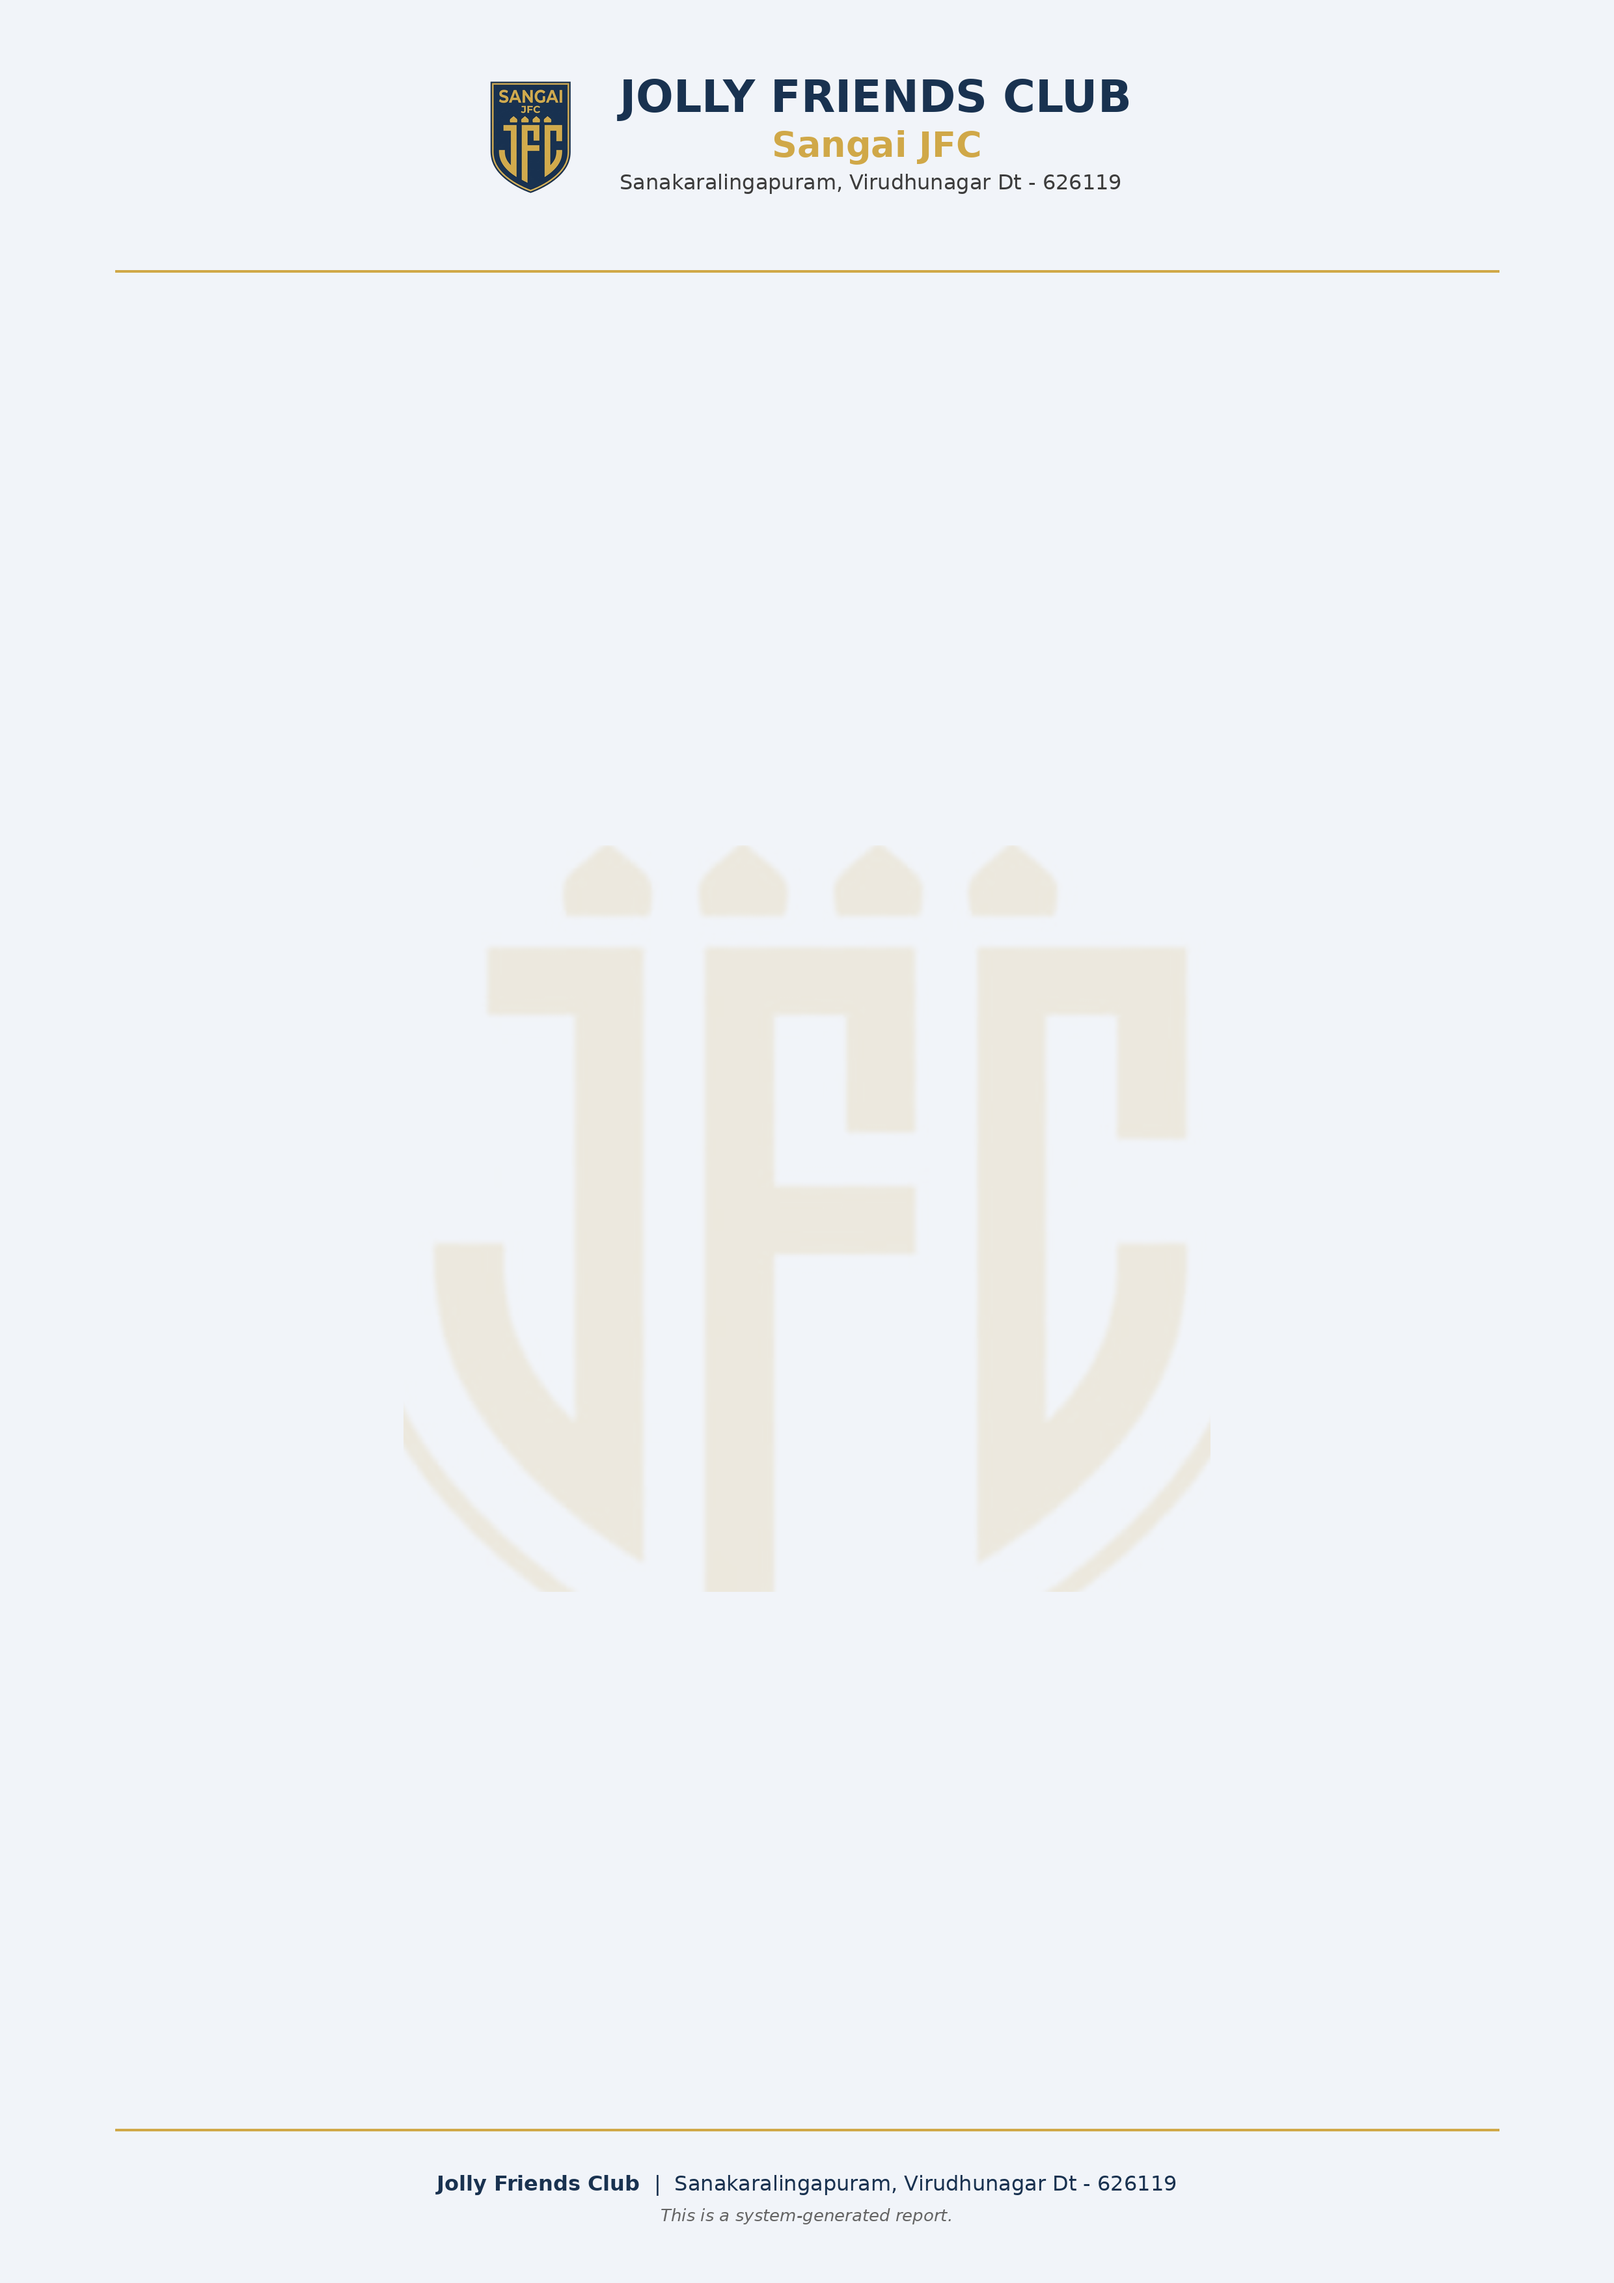
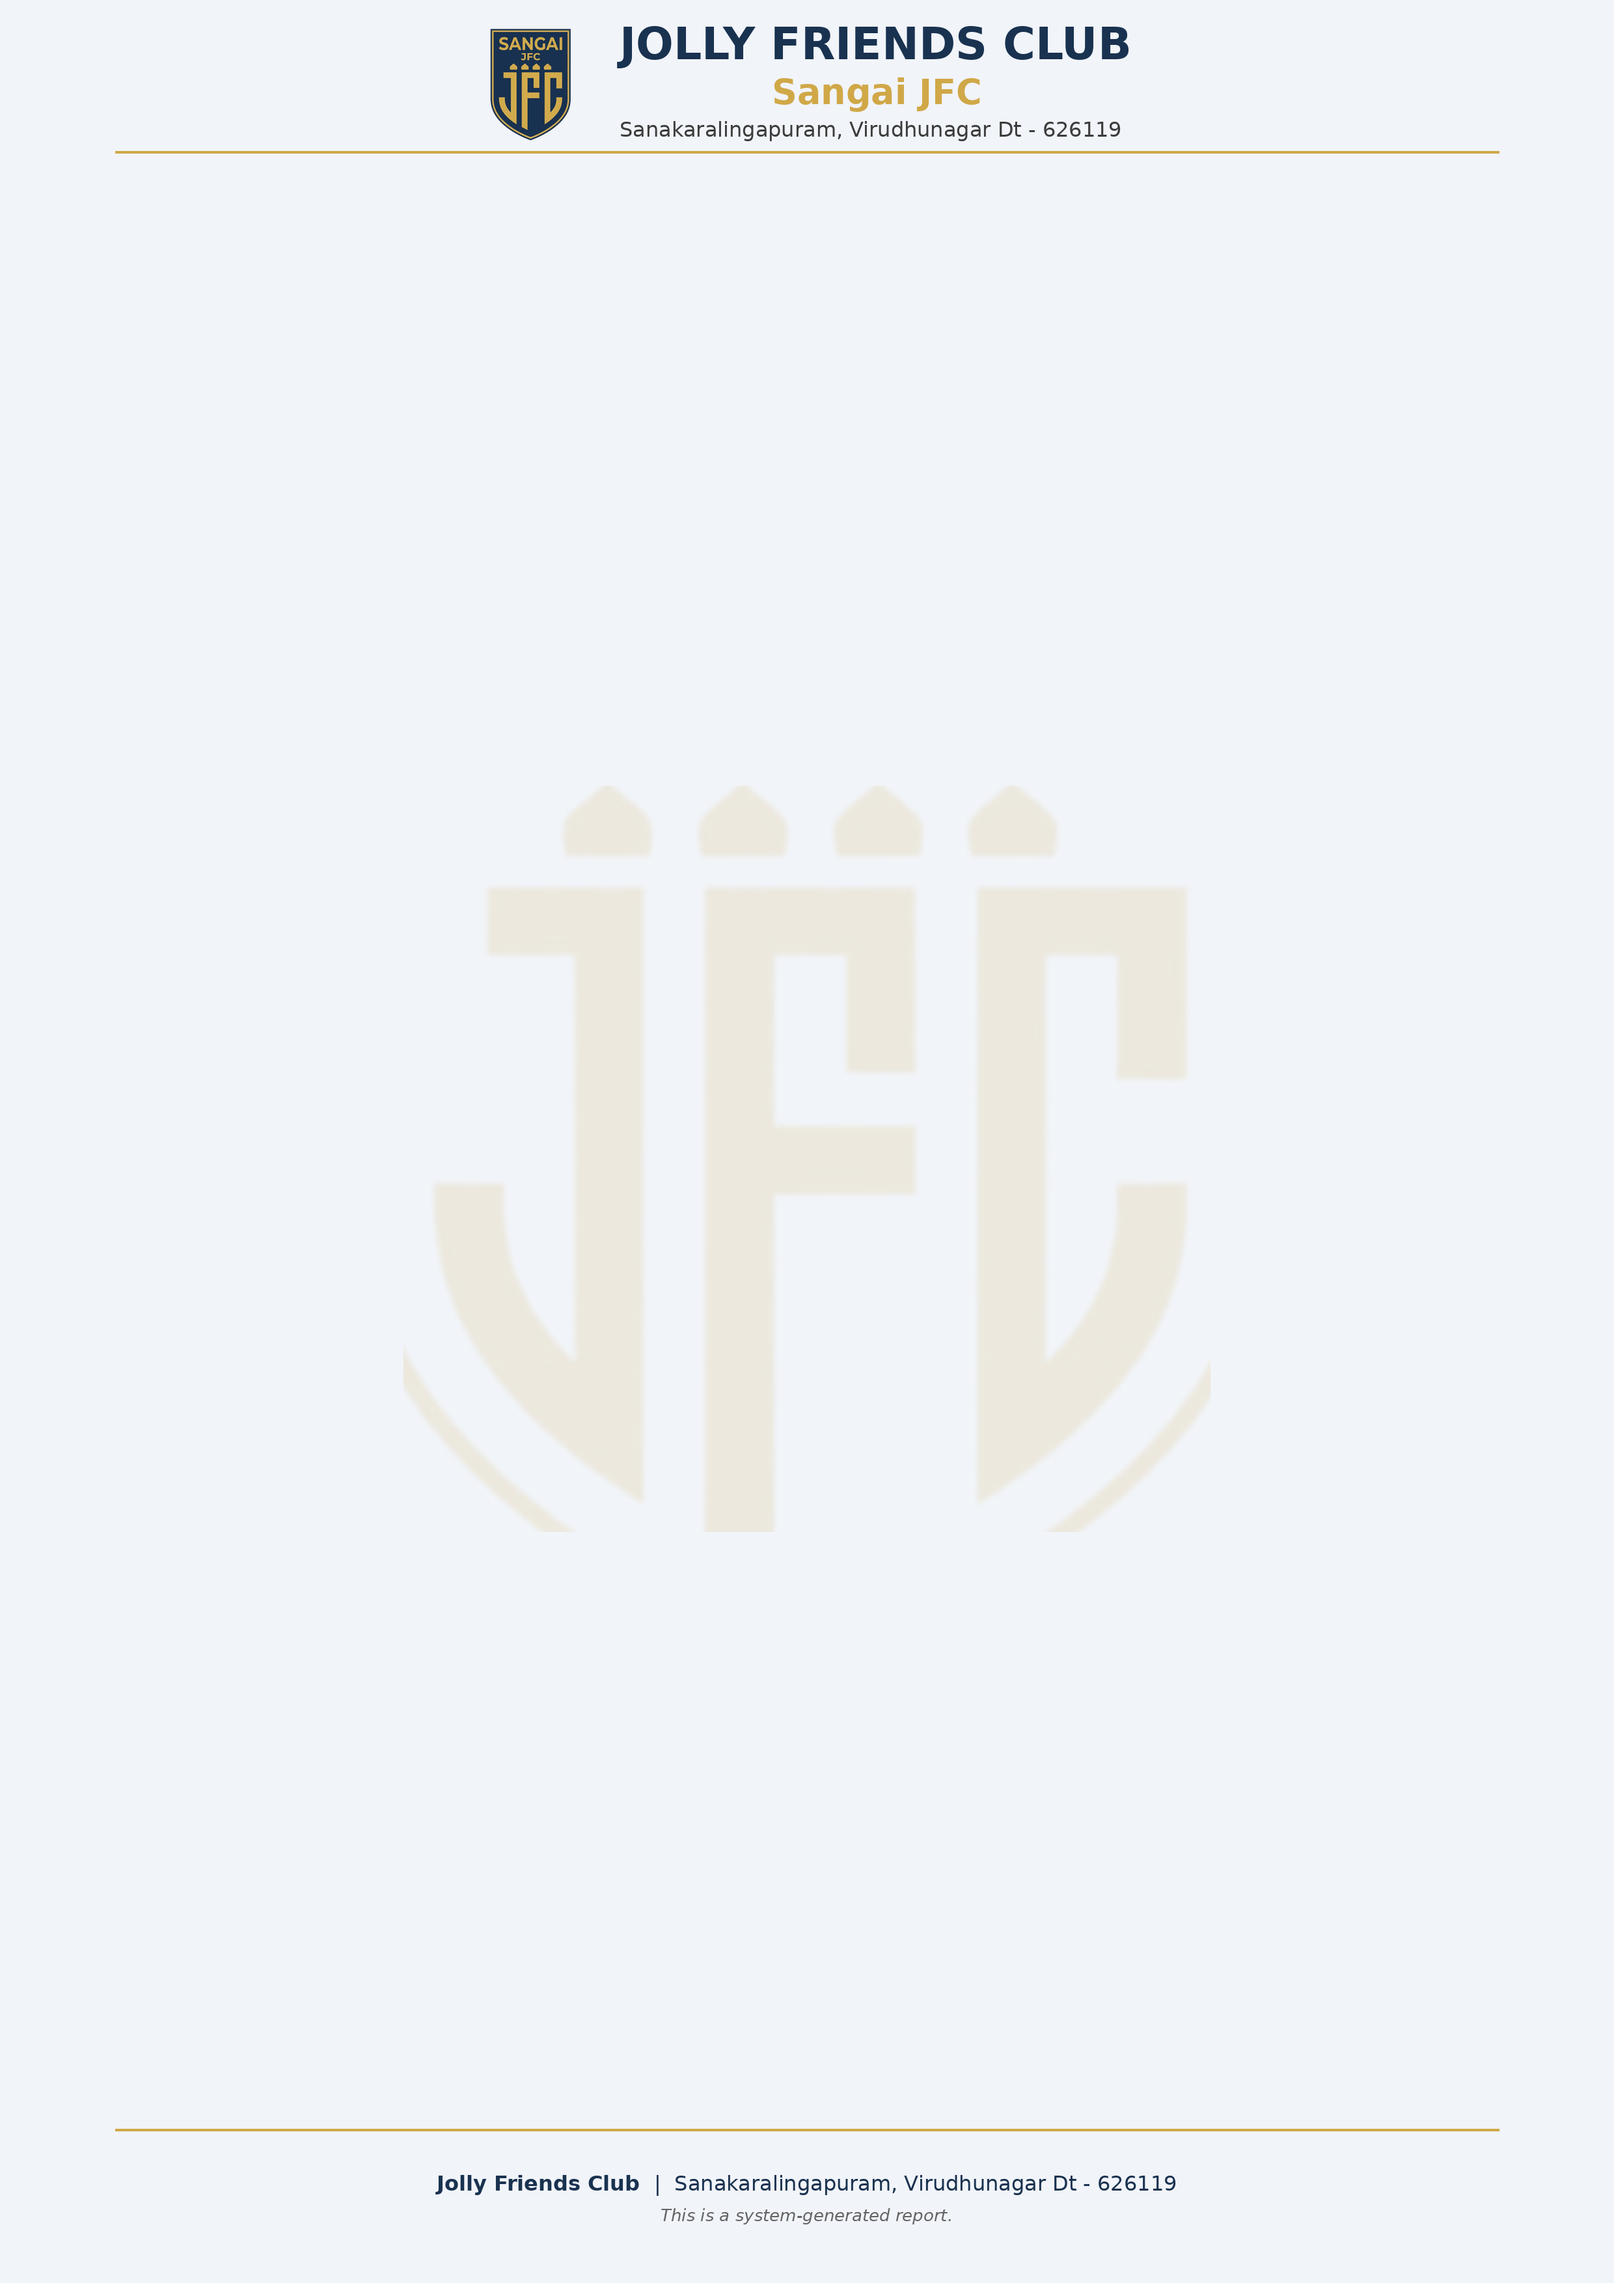
Add files via upload

diff --git a/backend/src/utils/reportExport.js b/backend/src/utils/reportExport.js
@@ -9,11 +9,15 @@ const path = require('path');
 // defines so it never overlaps the header or footer artwork.
 const LETTERHEAD_PATH = path.join(__dirname, '..', '..', 'assets', 'letterhead.png');
 
-// A4 in points, and the safe-area margins from the spec, converted from mm
-// (1mm = 2.83465pt): header 40mm, footer 20mm, left/right 15mm each.
+// A4 in points, and the safe-area margins, converted from mm (1mm =
+// 2.83465pt). The header margin was tightened from the original 40mm
+// spec to 24.5mm to match the letterhead's shorter header block (logo +
+// club name now only take ~24.5mm instead of a fixed 40mm reservation) -
+// see docs/LETTERHEAD_TEMPLATE_SPEC.md, updated alongside this. Bottom/
+// left/right are unchanged from the original spec.
 const MM_TO_PT = 2.83465;
 const PAGE_MARGINS = {
-  top: 40 * MM_TO_PT,
+  top: 24.5 * MM_TO_PT,
   bottom: 20 * MM_TO_PT,
   left: 15 * MM_TO_PT,
   right: 15 * MM_TO_PT,
